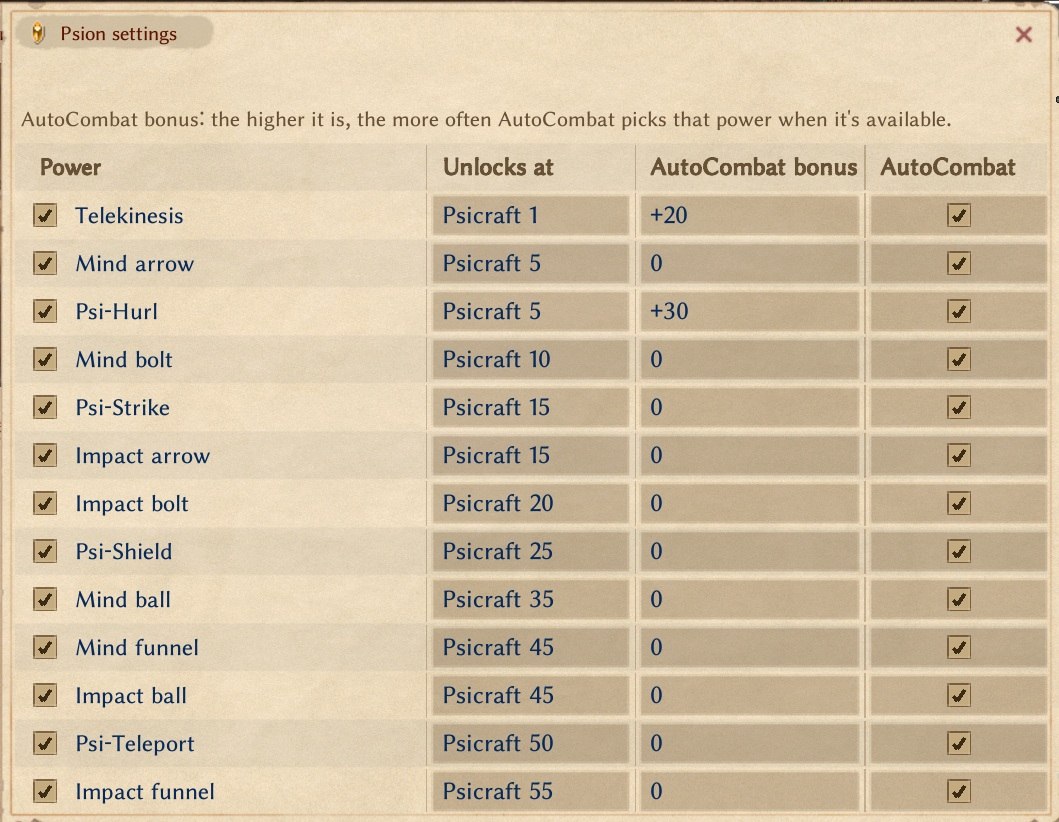
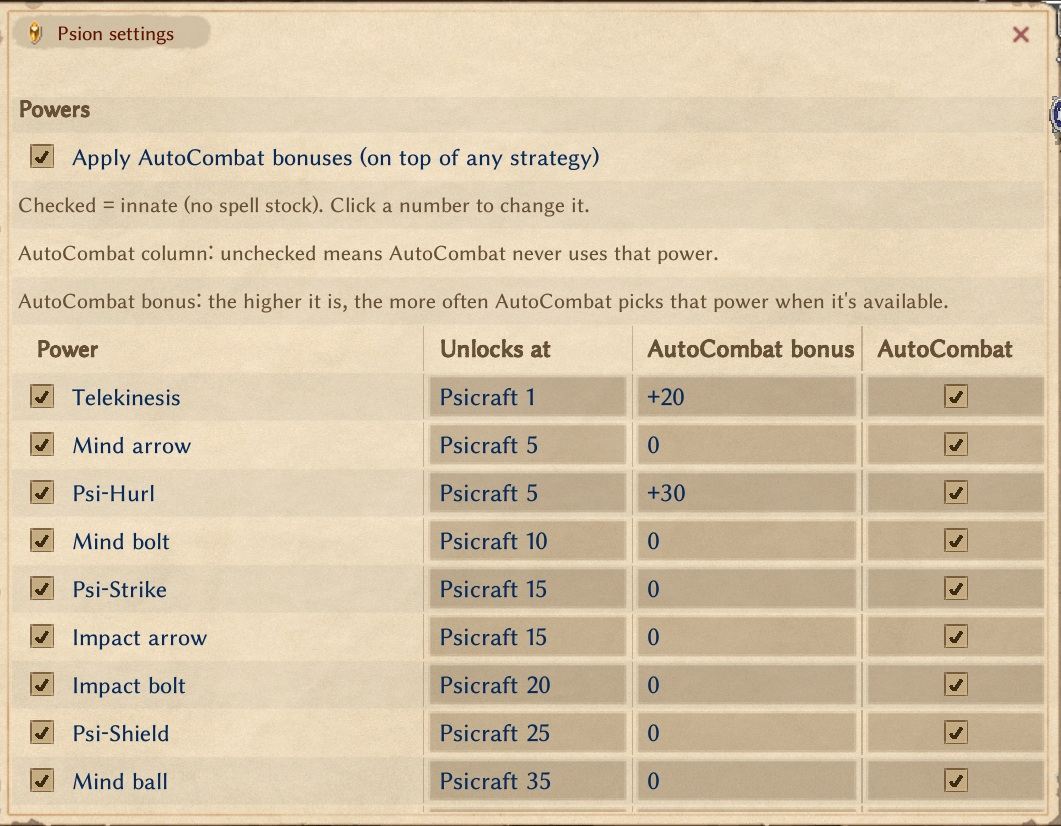
0.2.1: AutoCombat column note; powers table screenshot

diff --git a/src/Plugin.cs b/src/Plugin.cs
@@ -4,7 +4,7 @@ using HarmonyLib;
 
 namespace PsionClass
 {
-    [BepInPlugin(Id, "Psion", "0.2.0")]
+    [BepInPlugin(Id, "Psion", "0.2.1")]
     public sealed class Plugin : BaseUnityPlugin
     {
         public const string Id = "gharkz.elin.psion";

diff --git a/CHANGELOG.md b/CHANGELOG.md
@@ -1,5 +1,8 @@
 # Changelog
 
+## 0.2.1
+Psion settings: a note explaining the powers table's AutoCombat column (unchecked means AutoCombat never uses that power).
+
 ## 0.2.0
 - Psi-Hurl (Psicraft 5): hurl any object or creature you can see, yourself included, along a line you aim from the target's tile, like a bolt cast from there. It flies 4 tiles, +1 per 3 Telekinesis levels (max 20), or always 20 with a Psion settings option. Its description spells out the distance multiplier on collision damage. It shares Telekinesis's level and XP and has its own icon. Costs 1.5x Telekinesis. Distance, weight and higher-level creatures make it harder.
 - AutoCombat aims Psi-Hurl itself: loose objects or hostile creatures are thrown into enemies (yes, enemies into each other), never through allies, neutrals or you.

diff --git a/BUILD.md b/BUILD.md
@@ -4,6 +4,6 @@ Run `dotnet build -c Release`. Set the `ElinGamePath` MSBuild property if Elin i
 
 The build does not install anything. The package in `dist/PsionClass` needs its DLL, `package.xml`, `assets/` and `LangMod/` together.
 
-Release version: 0.2.0 (beta). Package compatibility: 0.23.355.
+Release version: 0.2.1 (beta). Package compatibility: 0.23.355.
 
 All Psion rows (job, Psicraft skill, feats, kinetic power clones, Psi-Shield, Psi-Teleport, Psi-Hurl, Psi-Strike, Necropathy enchant, tactics) are registered in code by cloning vanilla rows; nothing depends on other mods. Custom act classes live in the global namespace and are resolved through a `ClassCache.typeLoaders` entry. Icons and the Workshop preview are original and generated by `tools/draw_icons.py` and `tools/draw_preview.py`.
